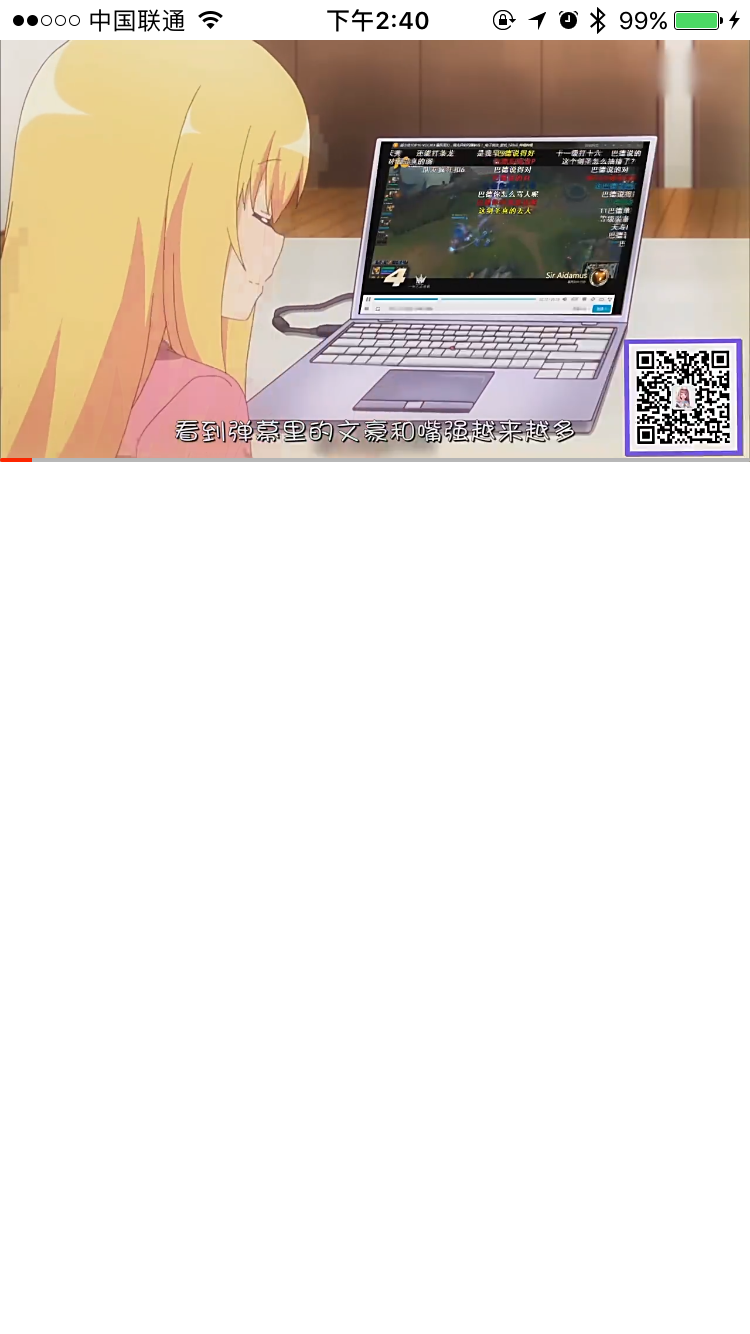
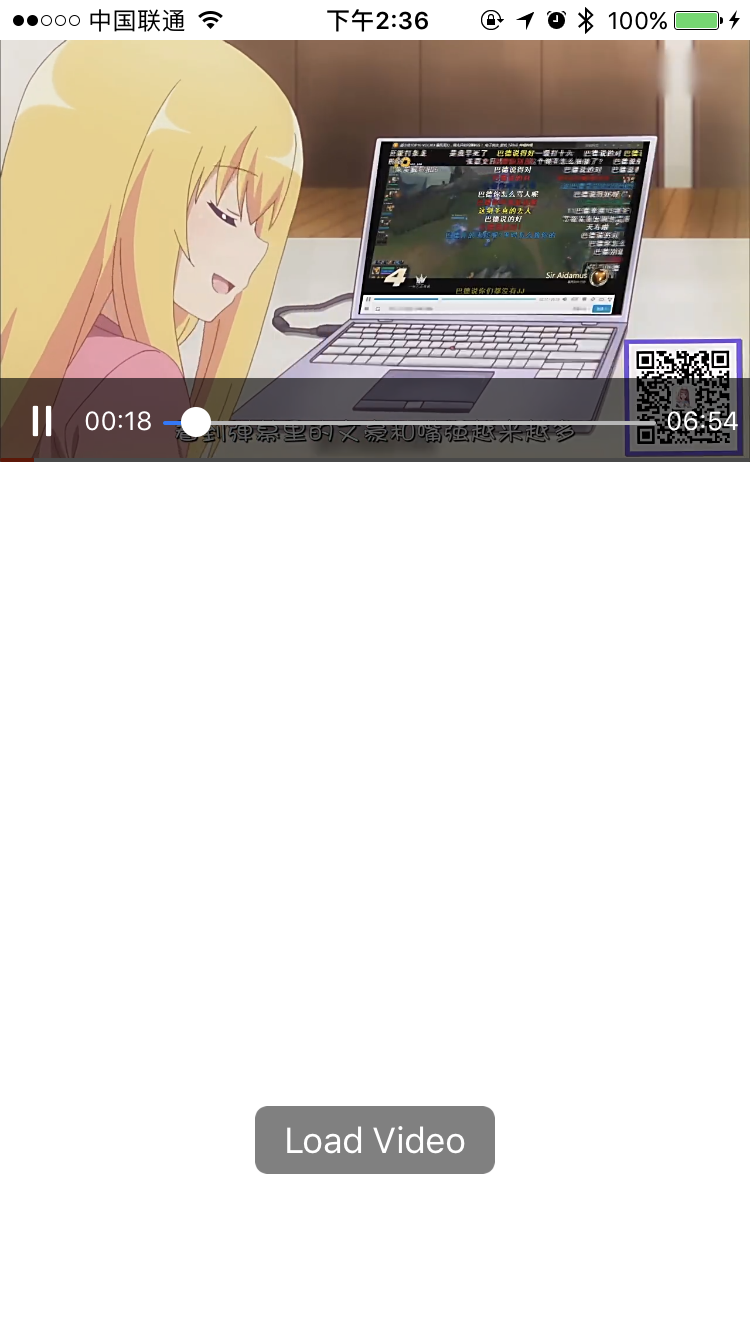
细节优化

diff --git a/BasePlayerView/PlayerBottomControl.m b/BasePlayerView/PlayerBottomControl.m
@@ -29,7 +29,7 @@
 - (instancetype)initWithFrame:(CGRect)frame{
     self = [super initWithFrame:frame];
     if (self) {
-        self.backgroundColor = [UIColor colorWithWhite:0 alpha:0.8];
+        self.backgroundColor = [UIColor colorWithWhite:0 alpha:0.6];
         
         _playImage = [[UIImageView alloc] init];
         _playImage.image = [UIImage imageNamed:@"player_play"];
